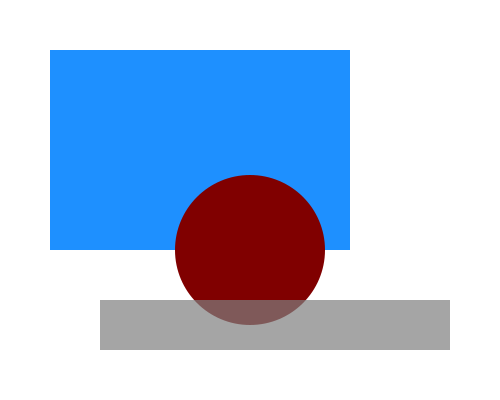
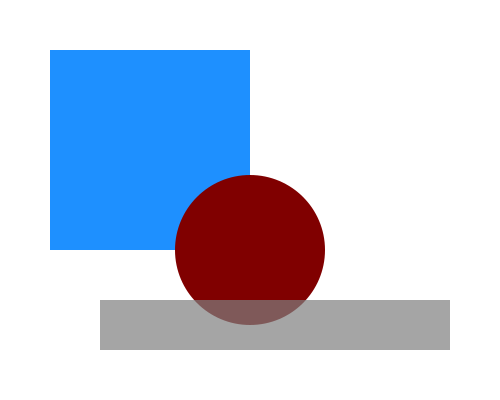
Add stroke images

Changed region(s): [[0.48, 0.12, 0.72, 0.63]]

diff --git a/basic-drawing/stroke-boundary.py b/basic-drawing/stroke-boundary.py
@@ -1,0 +1,17 @@
+from generativepy.color import Color
+from generativepy.drawing import make_image, setup
+from generativepy.geometry import Rectangle, Circle
+
+
+def draw(ctx, pixel_width, pixel_height, frame_no, frame_count):
+    setup(ctx, pixel_width, pixel_height, background=Color(1))
+
+    Rectangle(ctx).of_corner_size((50, 50), 300, 200).stroke(Color("black"), 30)
+    Rectangle(ctx).of_corner_size((50, 50), 300, 200).stroke(Color("white"), 2, dash=[8, 8])
+    Circle(ctx).of_center_radius((50, 50), 4).fill(Color("red"))
+    Circle(ctx).of_center_radius((350, 50), 4).fill(Color("red"))
+    Circle(ctx).of_center_radius((50, 250), 4).fill(Color("red"))
+    Circle(ctx).of_center_radius((350, 250), 4).fill(Color("red"))
+
+
+make_image("stroke-boundary.png", draw, 400, 300)

diff --git a/basic-drawing/fill.py b/basic-drawing/fill.py
@@ -1,12 +1,12 @@
 from generativepy.color import Color
 from generativepy.drawing import make_image, setup
-from generativepy.geometry import Rectangle, Circle
+from generativepy.geometry import Rectangle, Circle, Square
 
 
 def draw(ctx, pixel_width, pixel_height, frame_no, frame_count):
     setup(ctx, pixel_width, pixel_height, background=Color(1))
 
-    Rectangle(ctx).of_corner_size((50, 50), 300, 200).fill(Color("dodgerblue"))
+    Square(ctx).of_corner_size((50, 50), 200).fill(Color("dodgerblue"))
     Circle(ctx).of_center_radius((250, 250), 75).fill(Color("maroon"))
     Rectangle(ctx).of_corner_size((100, 300), 350, 50).fill(Color("grey", 0.7))
 

diff --git a/basic-drawing/stroke.py b/basic-drawing/stroke.py
@@ -1,0 +1,14 @@
+from generativepy.color import Color
+from generativepy.drawing import make_image, setup
+from generativepy.geometry import Rectangle, Circle, Square
+
+
+def draw(ctx, pixel_width, pixel_height, frame_no, frame_count):
+    setup(ctx, pixel_width, pixel_height, background=Color(1))
+
+    Square(ctx).of_corner_size((50, 50), 200).stroke(Color("red"), 1)
+    Circle(ctx).of_center_radius((250, 250), 75).stroke(Color("blue"), 8)
+    Rectangle(ctx).of_corner_size((100, 300), 350, 50).fill(Color("orange")).stroke(Color("black"), 4)
+
+
+make_image("stroke.png", draw, 500, 400)
